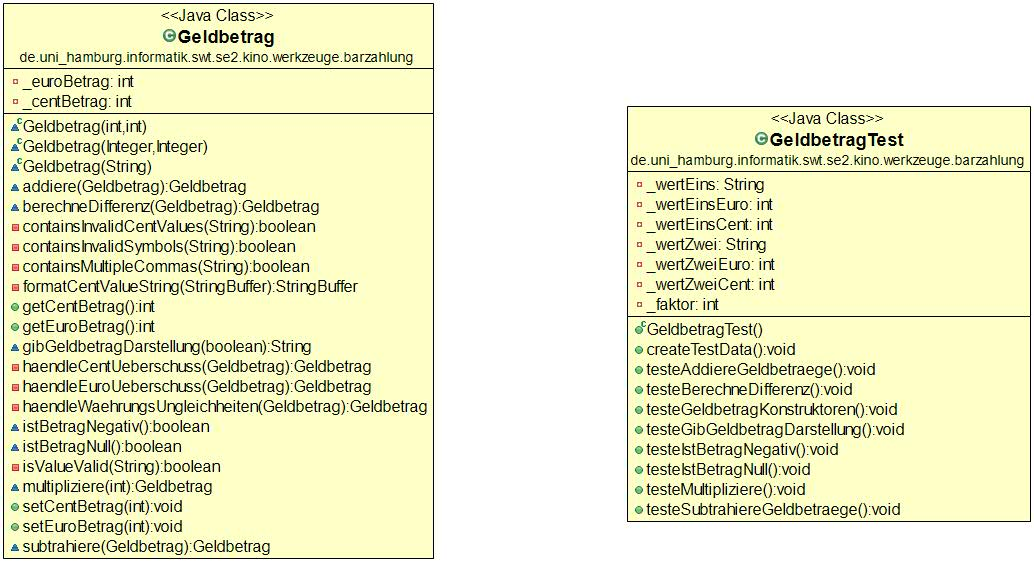
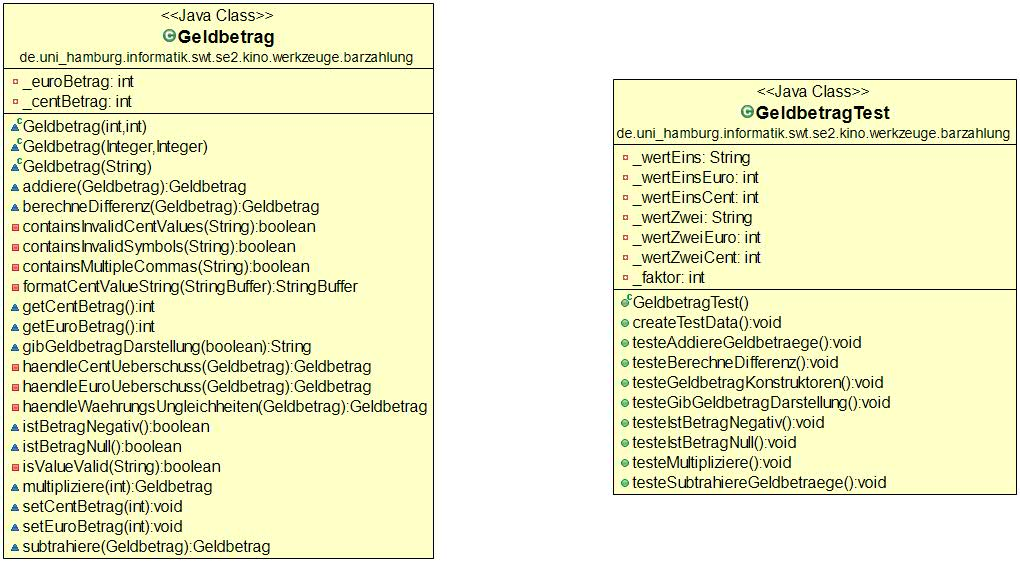
Visibility fix.

Changed region(s): [[0.0, 0.0, 0.4255, 0.9982], [0.5775, 0.121, 1.0, 0.9377]]

diff --git a/Kinoticketverkauf_Vorlage_Blatt09/src/de/uni_hamburg/informatik/swt/se2/kino/werkzeuge/barzahlung/Geldbetrag.java b/Kinoticketverkauf_Vorlage_Blatt09/src/de/uni_hamburg/informatik/swt/se2/kino/werkzeuge/barzahlung/Geldbetrag.java
@@ -208,7 +208,7 @@ class Geldbetrag
      *
      * @return den aktuellen Centanteil des Betrages als int.
      */
-    public int getCentBetrag()
+    int getCentBetrag()
     {
         return _centBetrag;
     }
@@ -218,7 +218,7 @@ class Geldbetrag
      *
      * @return den aktuellen Euroanteil des Betrages als int.
      */
-    public int getEuroBetrag()
+    int getEuroBetrag()
     {
         return _euroBetrag;
     }
@@ -372,7 +372,7 @@ class Geldbetrag
      *
      * @param _centBetrag der gesetzt werden soll.
      */
-    public void setCentBetrag(int _centBetrag)
+    void setCentBetrag(int _centBetrag)
     {
         this._centBetrag = _centBetrag;
     }
@@ -382,7 +382,7 @@ class Geldbetrag
      *
      * @param _euroBetrag  der gesetzt werden soll.
      */
-    public void setEuroBetrag(int _euroBetrag)
+    void setEuroBetrag(int _euroBetrag)
     {
         this._euroBetrag = _euroBetrag;
     }
